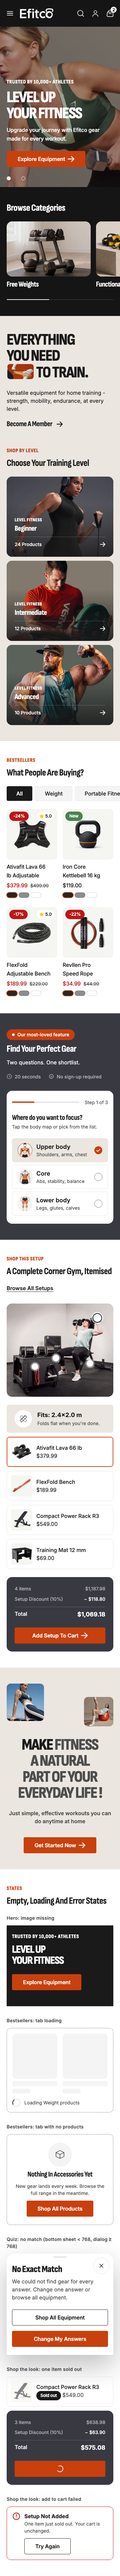
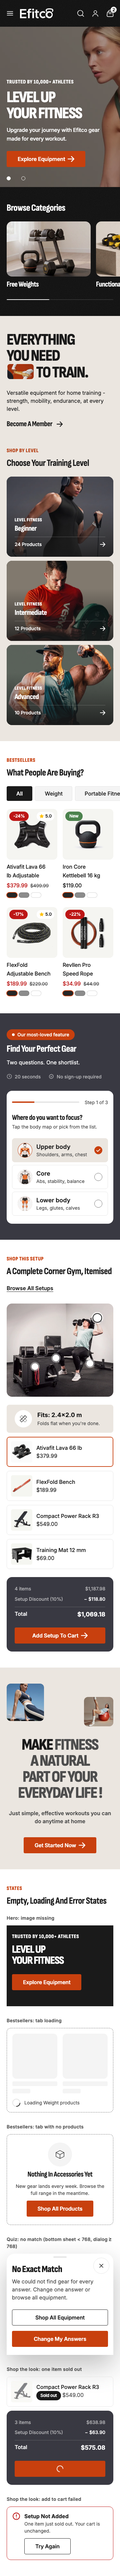
ai(designer): ES1-T292 DES-FIX T9: Trang chủ 768/360: LCP hero, ảnh hero đạt AA, tài liệu cũ (audit A8, A9, A10)
Agent-Version: designer@2dba963810
Session: 819e9d72-890e-42f3-856f-dd2dac3e8ba2
Outcome: ok

Changed region(s): [[0.0, 0.0, 1.0, 0.0937]]

diff --git a/drafts/designer/ES1-T278/index.html b/drafts/designer/ES1-T278/index.html
@@ -24,7 +24,8 @@
 
 /* ===== 2. Hero (1:422, 1:437) ===== */
 .hero { position: relative; display: grid; aspect-ratio: 3 / 4; overflow: hidden; background: var(--color-background-dark); color: var(--color-background-dark-foreground); }
-.hero__img { position: absolute; inset: 0; width: 100%; height: 100%; object-fit: cover; object-position: 66% 0%; }
+/* ES1-T292: ảnh hero hiện ngay (LCP, không reveal); focal point efx-slide-2.jpg = 25% 0% để vùng chữ nằm trên nền trơn (≥ 4.5:1) ở cả 360 và 768 */
+.hero__img { position: absolute; inset: 0; width: 100%; height: 100%; object-fit: cover; object-position: 25% 0%; }
 /* Sổ 10/11: lớp tối 30% (overlay_opacity 30) chỉ dưới 1280 */
 .hero__overlay { position: absolute; inset: 0; background: color-mix(in srgb, var(--color-background-dark) 30%, transparent); }
 .hero__content { position: relative; display: flex; flex-direction: column; align-items: flex-start; justify-content: flex-end; gap: var(--space-3); width: var(--content-width); margin-inline: auto; padding-block: var(--space-6) calc(var(--space-1) * 15); text-align: start; }
@@ -169,7 +170,6 @@
 @media (min-width: 48rem) {
   /* Hero 768: tràn mép như 360 (dải rộng --band-inset = 0 ở 768), chữ giữa dọc, mép 20; 2 nút 52 góc dưới phải, không dot */
   .hero { aspect-ratio: 4 / 3; }
-  .hero__img { object-position: 70% 0%; }
   .hero__content { justify-content: center; gap: var(--space-4); padding-block: var(--space-7); }
   .hero__content > * { max-width: 28rem; }
   .hero__dots { display: none; }
@@ -248,7 +248,7 @@
 
   <!-- ===== 2. Hero (1:422 slide 1, 1:437 slide 2) ===== -->
   <section class="hero" data-testid="container-home-hero" aria-roledescription="carousel" aria-label="Featured equipment">
-    <img class="hero__img" src="https://cdn.shopify.com/s/files/1/0625/5335/8433/files/efx-slide-2.jpg?width=1080" alt="Athlete lifting a chrome dumbbell" width="1440" height="1080" fetchpriority="high">
+    <img class="hero__img" src="https://cdn.shopify.com/s/files/1/0625/5335/8433/files/efx-slide-2.jpg?width=1600" srcset="https://cdn.shopify.com/s/files/1/0625/5335/8433/files/efx-slide-2.jpg?width=1080 1080w, https://cdn.shopify.com/s/files/1/0625/5335/8433/files/efx-slide-2.jpg?width=1600 1600w, https://cdn.shopify.com/s/files/1/0625/5335/8433/files/efx-slide-2.jpg?width=1920 1920w" sizes="(min-width: 80rem) 100vw, (min-width: 48rem) 164vw, 291vw" alt="Athlete doing a dumbbell row" width="1920" height="880" loading="eager" fetchpriority="high">
     <div class="hero__overlay" aria-hidden="true"></div>
     <div class="hero__content">
       <p class="hero__eyebrow">Trusted by 10,000+ athletes</p>

diff --git a/docs/ui-spec/index-mobile-a.md b/docs/ui-spec/index-mobile-a.md
@@ -1,6 +1,16 @@
-KHÔNG CHẮC: (1) Figma chỉ có desktop 1920 và không có trạng thái: mọi bố cục 768/360 và mọi trạng thái là ĐỀ XUẤT phát triển từ 1:359. (2) Ảnh `efx-slide-2.jpg` trên store dev cắt sát đỉnh đầu người mẫu ở khung 4/3 và 3/4 (khác Figma 1:437 còn khoảng trống trên đầu); mockup để `object-position` 0% dọc, merchant chỉnh focal point. (3) demo-data không xuất metafield `reviews.rating`: badge "★ 5.0" trên card 1 và 3 lấy theo Figma, thật thì theo metafield. (4) Giá, % giảm lấy từ demo-data nên khác số tĩnh của Figma (−24%, −17%, −22% thay −25%; tổng shop the look $1,187.98 thay $1,186.99). (5) SRS TE-2 AC2 còn ghi "360 luôn căn giữa", trái sổ quyết định 10/11 (căn trái mép 20): theo sổ, đã hỏi BA ở ES1-T280 (kèm câu rating ở (3)).
+KHÔNG CHẮC: (1) Figma chỉ có desktop 1920 và không có trạng thái: mọi bố cục 768/360 và mọi trạng thái là ĐỀ XUẤT phát triển từ 1:359. (2) Ảnh `efx-slide-2.jpg` trên store dev cắt sát đỉnh đầu người mẫu ở khung 4/3 và 3/4 (khác Figma 1:437 còn khoảng trống trên đầu); focal point 25% / 0% (§9.1). Tỉ lệ ảnh ~2.18:1 đo từ bản CDN `?width=960` (960 × 440), không có kích thước gốc; màu nền sau chữ ước lượng bằng mắt trên PNG, không có công cụ lấy mẫu điểm ảnh. (3) demo-data không xuất metafield `reviews.rating`: badge "★ 5.0" trên card 1 và 3 lấy theo Figma, thật thì theo metafield. (4) Giá, % giảm lấy từ demo-data nên khác số tĩnh của Figma (−24%, −17%, −22% thay −25%; tổng shop the look $1,187.98 thay $1,186.99). (5) SRS TE-2 AC2 còn ghi "360 luôn căn giữa", trái sổ quyết định 10/11 (căn trái mép 20): theo sổ, đã hỏi BA ở ES1-T280 (kèm câu rating ở (3)).
 
 # UI spec: Trang chủ 768 và 360, phần A (ES1-T278)
+
+## Thay đổi audit (ES1-T292, audit ES1-T283 A8, A9, A10)
+
+| Audit | Chỗ sửa | Trước | Sau |
+| --- | --- | --- | --- |
+| A8 | §10, §9.2 | Ảnh hero hiện dần khi cuộn tới (900ms): trễ LCP mobile | Ảnh slide 1 hiện ngay, không reveal; chỉ chữ hero được hiện dần lúc tải (400ms, không chờ cuộn). `sizes` hero sửa theo bề rộng ảnh thật khi `cover` (291vw / 164vw), srcset tối đa 1920w |
+| A9 | §9.1 | `efx-slide-2.jpg` focal 66% (360) / 70% (768): chữ đè người mẫu, điểm sáng ~2.7:1 | Giữ `efx-slide-2.jpg` (ảnh có nền phông trơn 40% trái), focal point 25% / 0% cho mọi mốc: vùng chữ 360 và 768 nằm hẳn trên phông trơn, ≥ 5.4:1; `efx-slide-1.jpg` loại (360 không có vùng trơn đủ rộng cạnh mặt người mẫu) |
+| A10 | `docs/ui-spec/index.md` dòng đầu | Spec ES1-T252 (gốc live) còn hiệu lực ngầm | Ghi "ĐÃ THAY bởi index-mobile-a.md, index-mobile-b.md (10/11)"; `drafts/designer/ES1-T252/` ngoài phạm vi file, xem §14 |
+
+Giữ nguyên các mục khác. Mockup `drafts/designer/ES1-T278/index.html` chỉ đổi thẻ ảnh hero (focal, srcset/sizes, kích thước 1920 × 880); PNG 360, 768 render lại.
 
 Mục đích: người mua trên tablet và điện thoại hiểu Efitco bán gì ngay màn đầu, tới được danh mục, cấp độ, bestseller, quiz, combo mà không mở menu. Story TE-17 (khối thuộc TE-1, TE-2, TE-3, TE-11, TE-12, TE-7). Template `templates/index.liquid`.
 
@@ -180,8 +190,17 @@ A11y: ảnh `alt=""` (trang trí), tiêu đề `<h2>` một khối, màu 2 tông
 
 | Chỗ | Cặp | Tỉ lệ | Kết luận |
 | --- | --- | --- | --- |
-| Chữ hero, lớp 30% trên tông nền chính #8B8279 | trắng / #69635C (L 0.127) | 5.93 | Đạt; điểm sáng (dây áo) còn ~2.7, theo sổ 10/11 chọn ảnh nền trơn sau chữ |
-| Dot hero (viền trắng) | trắng / như trên | 5.93 | Đạt ≥ 3 (phi chữ) |
+| Chữ hero 360/768, lớp 30% trên phông trơn `efx-slide-2.jpg` #8B8279 | trắng / #69635C (L 0.127) | 5.93 | Đạt |
+| Như trên, điểm sáng nhất của phông trong vùng chữ (#908A80) | trắng / #6D6861 (L 0.141) | 5.49 | Đạt; vùng chữ không chạm da, tóc, dây áo (focal 25% / 0%, dưới) |
+| Dot hero 360, nút 52 hero 768 (phi chữ) | trắng / phông như trên | ≥ 5.4 | Đạt ≥ 3 |
+
+Ảnh hero (sổ 10/11 "thiếu AA thì chọn ảnh nền trơn, không tăng lớp tối"), sửa ES1-T292:
+- File: `efx-slide-2.jpg` (slide 1, như Figma 1:422). Phông trơn chiếm ~40% bên trái ảnh, người mẫu từ ~40% sang phải (mặt 40–53% ngang, 0–36% dọc; tay trái 45–53% ngang, 43–100% dọc).
+- Focal point: x 25%, y 0% (đặt trên file trong Admin, Shopify xuất `object-position`); y không ảnh hưởng ở 360/768 vì ảnh rộng hơn khung, khớp theo chiều cao.
+- 360 (khung 360 × 480, ảnh hiện 1047 rộng): cửa sổ thấy 16–51% ngang ảnh; khối chữ x 20–300 = 18–45% ảnh, dọc 32–88%, chỉ trên phông; mặt người mẫu ở mép phải khung.
+- 768 (khung 768 × 576, ảnh hiện 1257 rộng): cửa sổ 10–71%; khối chữ x 20–415 = 11–43% ảnh, dọc 21–79%, chỉ trên phông; người mẫu, dây áo, tay ở nửa phải.
+- Loại `efx-slide-1.jpg` cho slide 1: phông trơn chỉ 0–29% ngang, mặt ở 49–63%; khung 360 (34% bề ngang ảnh) không thể vừa thấy mặt vừa để chữ trên phông.
+- Lớp tối giữ 30%, không tăng. Ảnh khác merchant thay vào: cần vùng trơn ≥ 45% ngang bên trái (ghi trong `info` setting ảnh, §14).
 | Tên danh mục, h2 trên dải tối | trắng / #1A1A1A | 17.4 | Đạt |
 | Tiêu đề intro, tên lựa chọn quiz đang chọn | #1A1A1A / sand (L 0.796) | 14.0 | Đạt |
 | Đoạn phụ trên sand (Make fitness, mô tả lựa chọn đang chọn) | #4D4D4D / sand | 6.81 | Đạt |
@@ -200,7 +219,7 @@ A11y: ảnh `alt=""` (trang trí), tiêu đề `<h2>` một khối, màu 2 tông
 - Không làm mờ chữ khi loading (Lighthouse tính opacity).
 
 ### 9.2 Performance
-- LCP: ảnh slide 1 (`efx-slide-2.jpg`) eager + `fetchpriority="high"`, `sizes="100vw"` dưới 80rem (360 → ~720w, 768 → ~1536w). Slide 2 lazy.
+- LCP: ảnh slide 1 (`efx-slide-2.jpg`) eager + `fetchpriority="high"`, hiện ngay khi tải, không reveal (§10). Ảnh `cover` khớp theo chiều cao nên rộng hơn khung: `sizes="(min-width: 80rem) 100vw, (min-width: 48rem) 164vw, 291vw"` (360: 480 × 2.18 = 1047 = 291vw; 768: 576 × 2.18 = 1257 = 164vw); srcset 1080, 1600, 1920w, không vượt 1920 (giới hạn dung lượng LCP mobile). Sửa ES1-T292: `sizes="100vw"` cũ tải ảnh hẹp hơn chỗ hiện, mờ ở DPR 2. Slide 2 lazy.
 - Mọi ảnh dưới màn đầu `loading="lazy"` + width/height; ảnh ẩn ở 360 (body map, ảnh 3 Make fitness) là lazy + `display: none` nên không tải.
 - Màn đầu 360: header 80 + hero 480 = 560, tiêu đề Browse Categories ở ~608 (thấy được trên máy 360 × 740): danh mục chính lộ ngay (07 §D "đường dẫn danh mục chính trên homepage").
 - CLS: mọi ảnh có `aspect-ratio`; tổng shop the look in từ Liquid; panel sticky không đổi layout.
@@ -214,7 +233,12 @@ A11y: ảnh `alt=""` (trang trí), tiêu đề `<h2>` một khối, màu 2 tông
 - Mockup 0 lỗi console ở 360 và 768; PNG đúng bề ngang viewport (không tràn ngang; hàng cuộn tự cắt).
 
 ## 10. Motion
-Theo sổ 09/11 và F§19: tiêu đề, card, ảnh hero hiện dần khi cuộn tới (900ms, lệch 80ms/card, 1 lần); hover 150–250ms; tab đổi lưới fade 250ms; chỉ transform/opacity/clip-path; tắt khi `prefers-reduced-motion`.
+Theo sổ 09/11 và F§19, sửa ES1-T292 (audit A8):
+- Màn đầu (header, hero): ảnh slide 1 và lớp tối KHÔNG có hiệu ứng vào (không opacity, clip-path, scale), hiện ngay khi tải: ảnh là LCP, reveal làm trễ LCP mobile (chỉ tiêu ≥ 90, sổ 09/11). Cùng cách `product.md` §14, `blog.md` §7, `article.md`.
+- Chữ hero (eyebrow, H1, câu phụ, nút): ĐỀ XUẤT hiện dần ngay lúc tải, không chờ cuộn: opacity 0 → 1 + translate 16px → 0, 400ms, lệch 60ms, ease-out; xong trước 700ms (15 §1 "100–500ms"; 15 §3 chỉ tiêu đề, ảnh chính, CTA). Không áp cho ảnh.
+- Chuyển slide: opacity 500ms, chỉ khi người dùng bấm (§2).
+- Từ Browse Categories trở xuống: tiêu đề, card hiện dần khi cuộn tới (900ms, lệch 80ms/card, 1 lần).
+- Hover 150–250ms; tab đổi lưới fade 250ms; chỉ transform/opacity/clip-path; tắt khi `prefers-reduced-motion` (chữ hero hiện ngay).
 
 ## 11. Settings merchant
 Không thêm setting. Dùng có sẵn; chỉ đổi mặc định trong template:
@@ -246,3 +270,19 @@ CTO chốt cả các câu dưới đây theo đề xuất (docs/design/decisions
 1. Hero 768 tràn màn 4/3 không bo, chữ mép 20, 2 nút 52 góc dưới phải, không dot (thay thẻ bo trong container chữ lùi vào)? Đề xuất: có (§2).
 2. 360 ẩn ảnh trang trí để khối ngắn: body map quiz và ảnh thứ 3 Make fitness, panel quiz tràn mép? Đề xuất: có (§6, §8; 07 §C, 19 §D6).
 3. Bestseller 768 lưới 4 cột 170 (1 hàng như Figma) thay 3 cột của foundation khi số sản phẩm chia hết cho 4? Đề xuất: có (§5).
+
+## 14. Đề xuất cho file ngoài phạm vi ES1-T292 (không sửa ở ticket này)
+
+| File | Đề xuất | Phía |
+| --- | --- | --- |
+| Admin store dev, Content > Files `efx-slide-2.jpg` | Đặt focal point 25% / 0% | DevOps người (store dev) |
+| `blocks/slideshow-slide.liquid` | Ảnh xuất `object-position` từ `image.presentation.focal_point` (kiểm `image_tag`); `sizes` như §9.2; không class reveal trên ảnh slide 1; `info` setting ảnh: "Keep the left 45% plain behind the text" | FE |
+| `templates/index.liquid` | `overlay_opacity: 30` cho slide 1, 2 (đã có ở §12) | FE |
+| `assets/*.js` (reveal) | Bỏ quan sát reveal cho ảnh hero; chữ hero chạy lúc tải, không chờ IntersectionObserver | BE |
+| `drafts/designer/ES1-T252/` | Xoá hoặc thêm `README` "ĐÃ THAY bởi ES1-T278" để không lẫn | Orchestrator |
+| 1280 (ticket trang chủ 1280 riêng) | Kiểm focal 25% ở khung thẻ 1280: thẻ gần tỉ lệ ảnh nên lệch nhỏ, chữ vẫn trên phông | Designer |
+
+## 15. Quyết định CTO cần chốt
+
+1. Chữ hero hiện dần lúc tải 400ms hay hiện ngay hoàn toàn? Đề xuất: hiện dần 400ms (§10), ảnh luôn hiện ngay.
+2. Focal point hero đặt trên file ảnh (Admin) hay thêm setting `image_position` cho slide? Đề xuất: focal point trên file, không thêm setting (Shopify có sẵn, merchant quen).

diff --git a/docs/ui-spec/index.md b/docs/ui-spec/index.md
@@ -1,3 +1,5 @@
+ĐÃ THAY bởi index-mobile-a.md, index-mobile-b.md (10/11). Không dùng file này làm nguồn thiết kế; chỉ còn để đối chiếu hiện trạng code cũ (index-mobile-a.md §12). Mockup `drafts/designer/ES1-T252/` cũng đã thay bởi `drafts/designer/ES1-T278/` (ES1-T292).
+
 KHÔNG CHẮC: (1) Ảnh live chụp theo khối, sau khi trang đã cuộn: header dính đè lên giữa ảnh của 9 khối, nên chỗ bị che không soát được. (2) Lúc chụp, một số ảnh lazy chưa tải (shop the look, testimonial, why choose, blog, featured product ở 360) và module JS chưa chạy (tổng bundle, shop the look ở 360; đồng hồ featured product). Những chỗ này đã soát bằng code (`assets/base.css`, `blocks/*.liquid`), không kết luận từ ảnh. (3) Ảnh sản phẩm lệch tên (ES1-T245) nên không tính là lỗi bố cục. (4) Hai file `index-1280.png` và `index-1920.png` còn lại từ lần 2, không thuộc lần 3 (desktop không làm lại); Designer không xoá được file, nhờ Orchestrator xoá.
 
 # UI spec: Trang chủ 768 và 360 (ES1-T252, lần 3)
